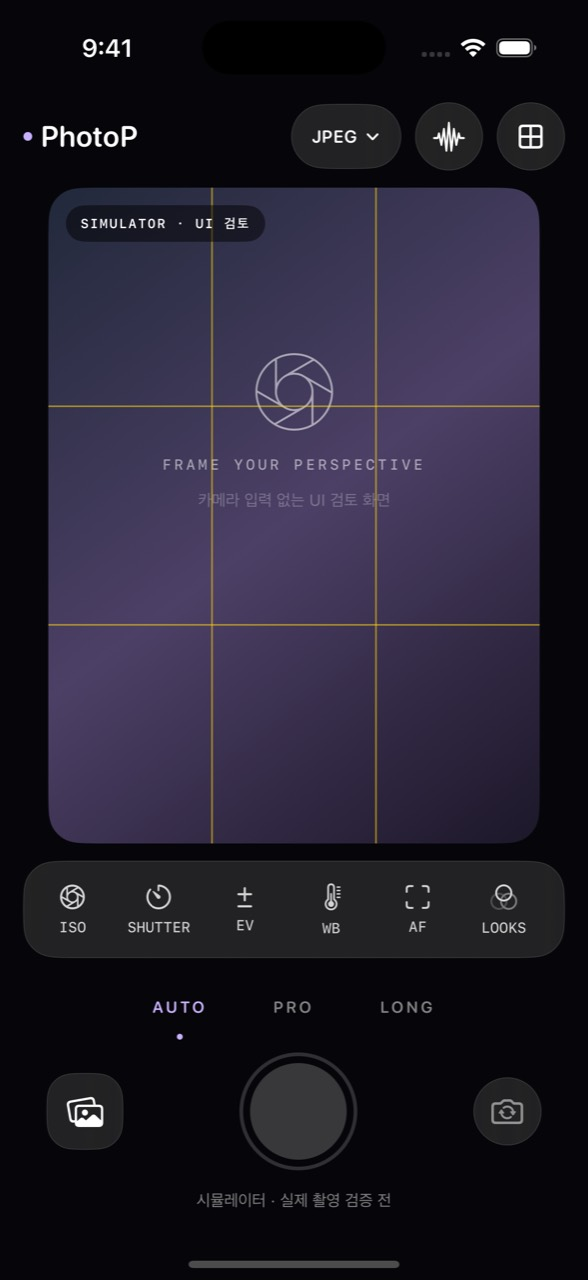
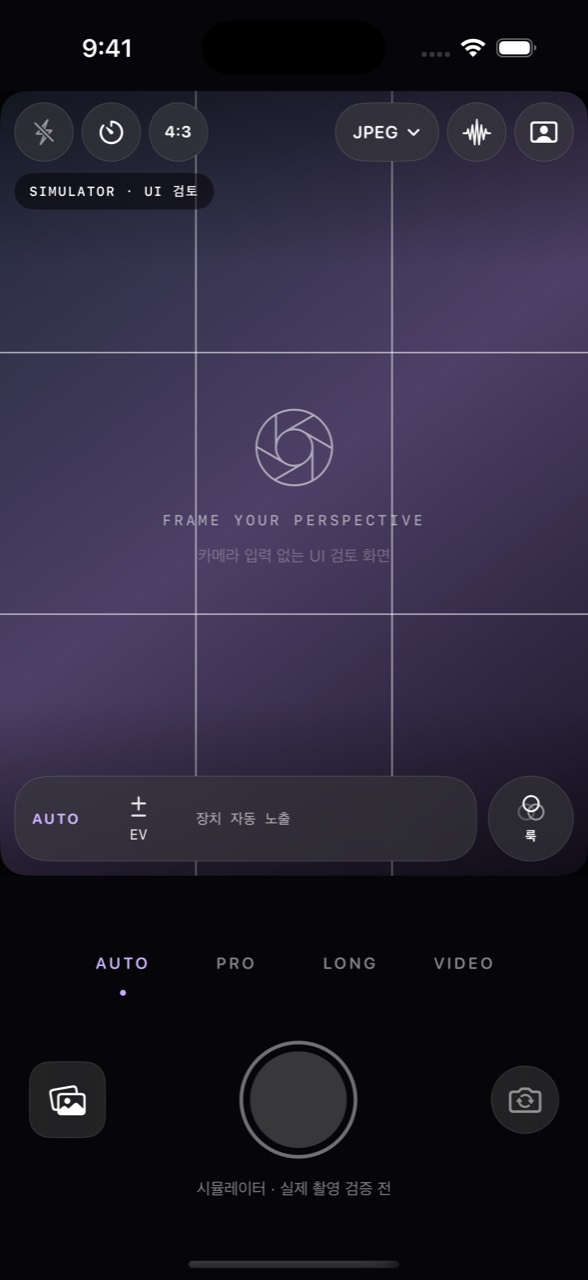
Record CI evidence and refresh camera screenshots for the photo-first UI [skip ci]
Claude-Session: https://claude.ai/code/session_01TSXT1avzXbxByHQXVe4av2

diff --git a/docs/14-CAMERA-UI.ko.md b/docs/14-CAMERA-UI.ko.md
@@ -61,3 +61,11 @@ SwiftUI 촬영 화면을 뷰파인더·도구 레일·촬영 도크로 재구성
   - 룩 카드 전환은 프리뷰를 다시 만들되 히스토그램·Zebra·피킹·AI 가이드 설정은 유지한다.
 - 한 번에 하나의 가이드 계열만 그린다. 프리셋을 고르면 기본 격자·인물 실루엣·포즈 골격을 끄고, 패널에서 격자나 실루엣을 고르면 프리셋을 해제한다.
 
+### 2·3차 실행 결과와 화면
+
+`7384cfa`의 [실행39614392835](https://github.com/MetaParodica/PhotoP/actions/runs/39614392835): iPhone SDK·Swift186·UI5·Python17·자산 검사·화면 캡처 성공. 중간 실패는 화면 밖 카드 탭과 썸네일의 중복 접근성 ID(UI 테스트), 20분 작업 제한 초과였고 각각 테스트 조정·썸네일 접근성 숨김·35분 제한으로 해결했다. 아래는 Debug 시뮬레이터 합성 배경의 실제 앱 화면이며 실기기 촬영이 아니다. 이전 1차 PNG 캡처는 현재 UI와 달라 제거했다.
+
+| 기본 | 구도 카드(인물 2/3) | 룩 카드 | 인물 실루엣·1:1 |
+| --- | --- | --- | --- |
+| ![기본](screenshots/camera.jpg) | ![구도 카드](screenshots/guide.jpg) | ![룩 카드](screenshots/looks.jpg) | ![인물](screenshots/person.jpg) |
+

diff --git a/README.md b/README.md
@@ -1,4 +1,4 @@
-> **최신 검증:** 촬영 UI·아이콘·외부 LUT25개·공간 스타일8개를 반영했습니다. [CI39581407493](https://github.com/MetaParodica/PhotoP/actions/runs/39581407493): iPhone SDK·Swift155·UI1·Python17·소스/앱 자산 검사·실행 화면 캡처 성공. 실제 iPhone 품질 검증은 대기입니다. [현재 보고](docs/07-IMPLEMENTATION-REPORT.ko.md) · [기본 화면](docs/screenshots/camera.png) · [구도 패널](docs/screenshots/guide.png)
+> **최신 검증:** 사진 중심 촬영 화면(전폭 뷰파인더·인물/주석형 구도 가이드·하단 카드 선택·줌/플래시/타이머·최근 촬영 확인)과 영상 오디오·손떨림 보정을 반영했습니다. [CI 39614392835](https://github.com/MetaParodica/PhotoP/actions/runs/39614392835): iPhone SDK·Swift186·UI5·Python17·자산 검사·화면 캡처 성공. 실제 iPhone 품질 검증은 대기입니다. [현재 보고](docs/07-IMPLEMENTATION-REPORT.ko.md) · [기본 화면](docs/screenshots/camera.jpg) · [구도 카드](docs/screenshots/guide.jpg) · [룩 카드](docs/screenshots/looks.jpg) · [인물 실루엣](docs/screenshots/person.jpg)
 
 # PhotoP
 
